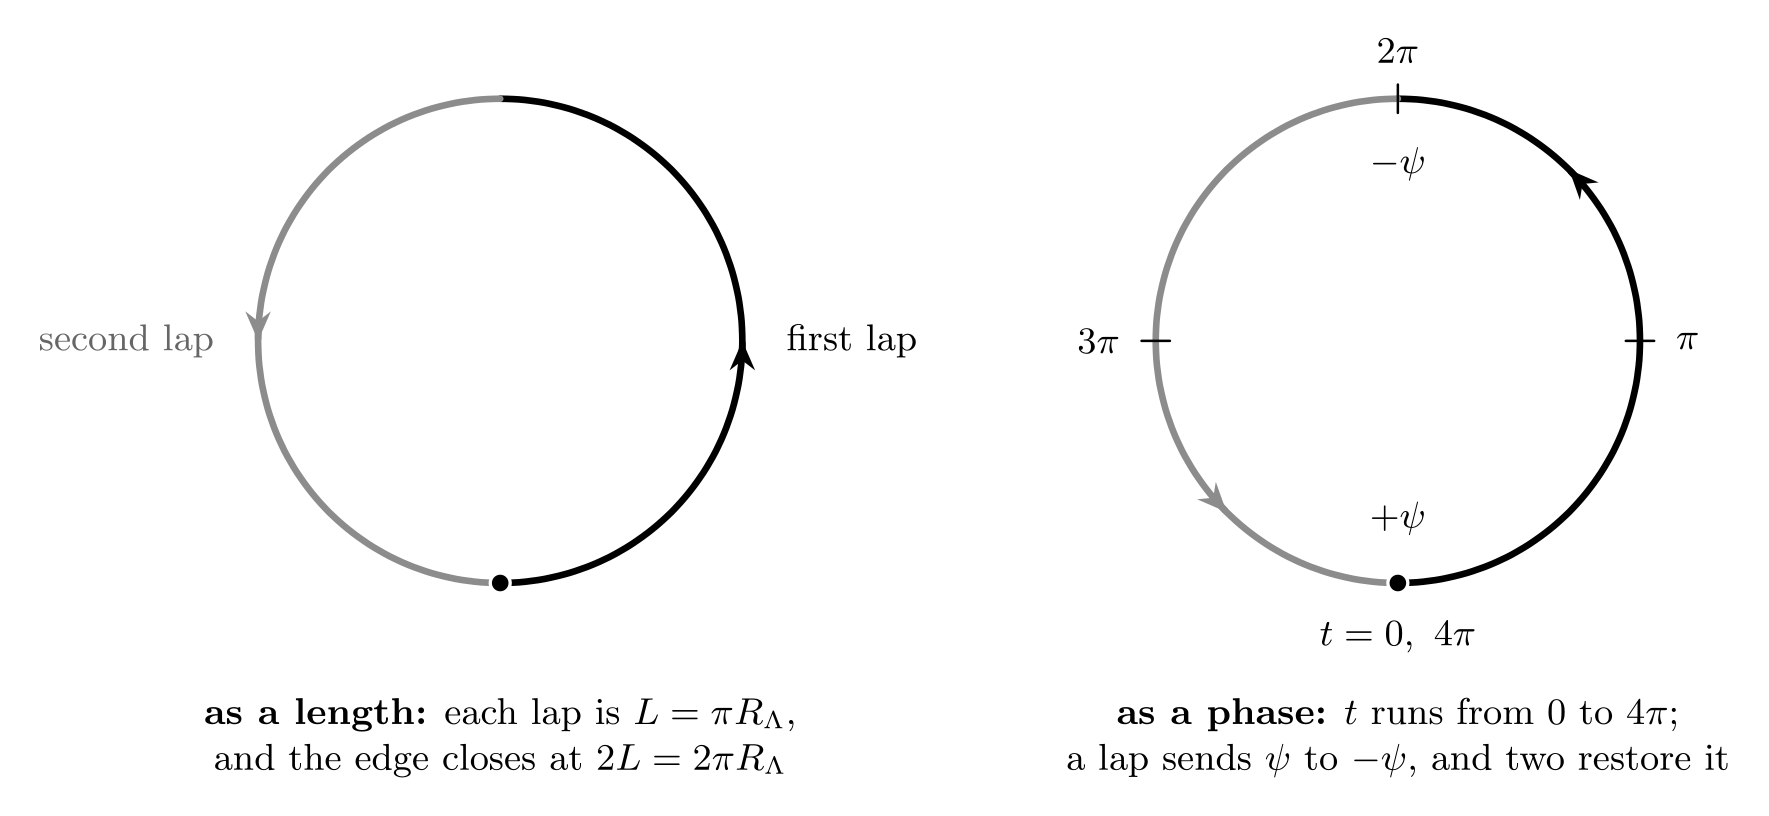
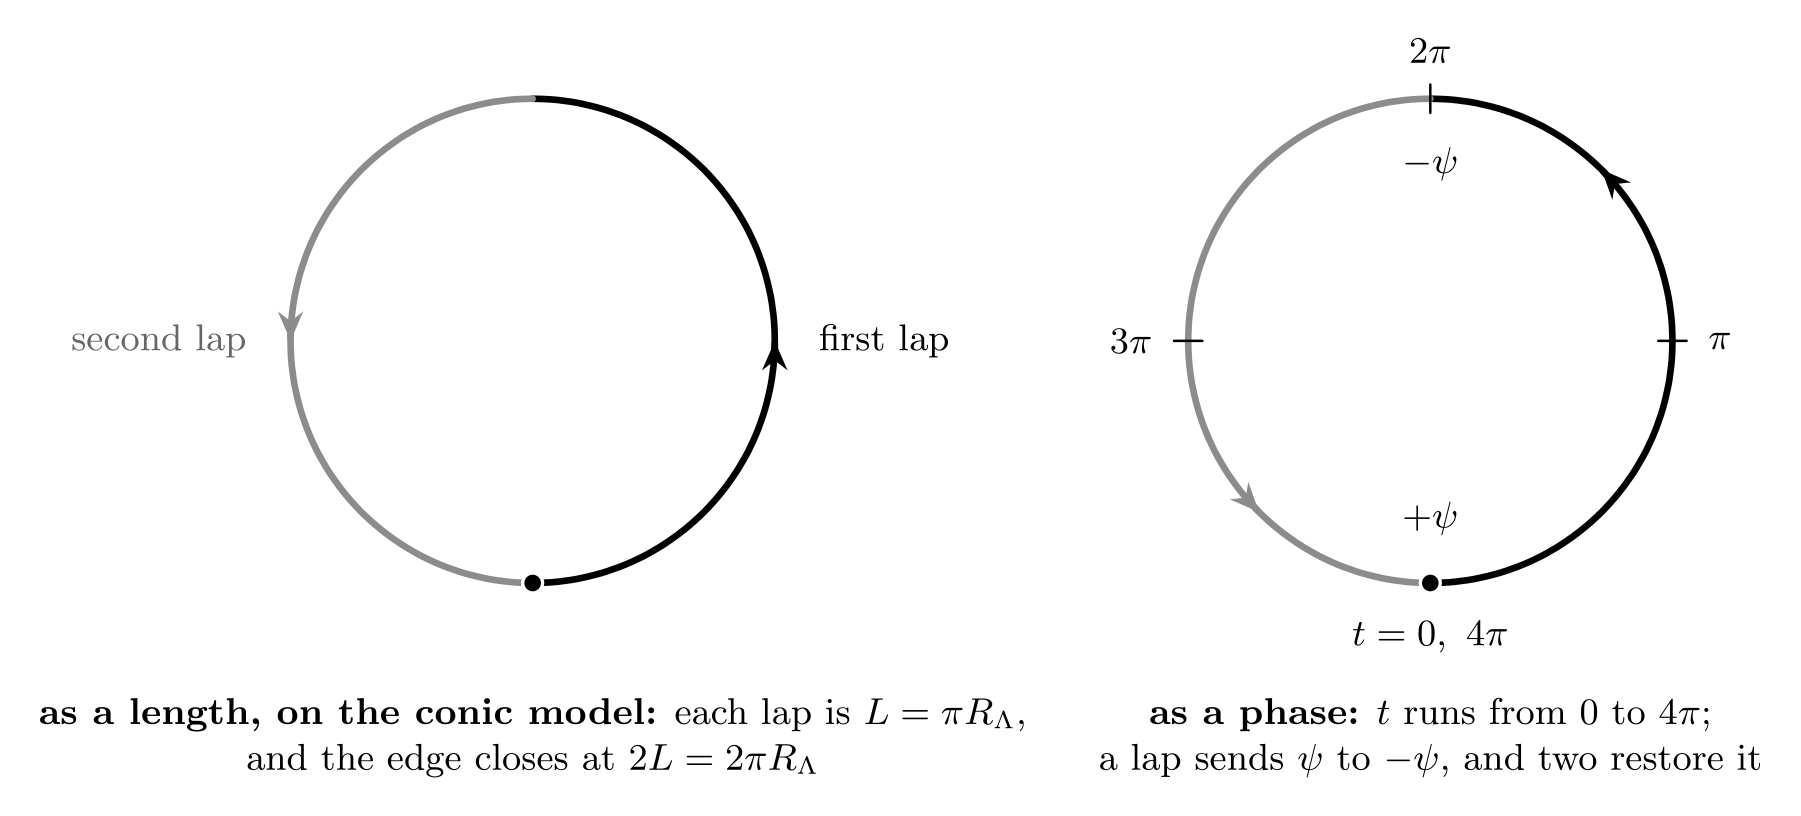
framework: the edge's two laps are topology, its lengths the conic model's
Blake's ruling of 2026-09-30 splits the Temporal Edge sentence. The two laps bind: the
edge winds twice around the core on every Möbius band. The lengths do not: each lap
πR_Λ and the edge 2πR_Λ belong to the conic model, and on a general carrier the core's
lap and the edge's arcs need not even agree (the tubes' edge is 2πR cos(W/R)). Only the
dimensionless mode numbers enter the physics, so nothing downstream moves.

- Surface table: the sign flip per lap, ψ(y + L) = −ψ(y), L the strip's longitudinal
  period, πR_Λ on the conic model
- eigenvalue sentence: k = (2m+1)π/L and ν = kL/(2π), half-integers independent of L;
  on the conic model k = (2m+1)/R_Λ as before
- Temporal Edge: the two laps as topology, L defined as the core's lap, the edge's
  arcs of length L on the conic model only
- the Temporal Edge figure: alt text and its printed caption say "on the conic model"
  (rebuilt from its TikZ source; nothing else in the figure changed)
- topology tool, Edge card: the two arcs and their length on the conic model

"The anti-periodic flip acts per lap" stays verbatim; the carrier page quotes it.

diff --git a/files/tools/files/topology.html b/files/tools/files/topology.html
@@ -367,7 +367,7 @@ var ann = {
   space: { label:"Space", name:"S³ and Its Quotients", body:"Closed, simply connected, no boundary: by the Poincaré theorem, the only such three-space. It covers every layer: S³ → ℝP³ = S³/{±I} → S³/2I, the spin cover SU(2), the rotation group SO(3), and the observable domain, the middle layer's quotient by the icosahedral group I. The grid shows that symmetry: 2I's 120 elements double-cover the icosahedron's 60 rotations. The carrier embeds in the middle layer; which layer is its physical domain is open. Drawn one dimension down.", math:"∂S³ = ∅" },
   surface: { label:"Surface", name:"Geodesic Lune, Möbius Quotient", body:"In the conic model, the leading realization, the carrier is a lune on the great S², unbent, whose opposite tips N and −N the antipodal map −I identifies. Joined at its tips, it is the Möbius band: one side, one edge, embedded in ℝP³ = S³/{±I}. The seam lands on its equator arc. The lune has constant curvature K = 1/R², widest at the equator and pinching to the tips. The twist is topological: the orientation reverses only through the joined tips, and the rest of the lune is orientable.", math:"ds² = dy² + cos²(y/R) dw²" },
   fold: { label:"Projective Layer", name:"The Antipodal Map −I", body:"Identify each point of S³ with its antipode, x ~ −x, and the result is ℝP³ = S³/{±I}. The ghosted lune is the lune's image under −I: in ℝP³ the two are one and the same lune, the carrier, and in S³ they form the double lune, meeting only at the tips, the carrier's whole preimage. The chords pair points with their antipodes, the two tips among them. The carrier's core is the loop that represents −I, and in the spinorial sectors −I is its Möbius holonomy: a geometric sign, not spin-statistics.", math:"ℝP³ = S³/{±I}" },
-  edge: { label:"Edge", name:"S¹ Boundary", body:"One circle that runs the strip twice, one lap per arc, each of length πR. On the lune it is the two boundary meridians, each closed through the joined tips: a figure-eight through the cone point, passing it once per lap. It is the framework's temporal edge, where time advances and the observer is anchored; time runs on the abstract circle, the band's boundary before the cone collapses its middle fiber, and the figure-eight is that circle's image.", math:"S¹ = ∂(Möbius)" },
+  edge: { label:"Edge", name:"S¹ Boundary", body:"One circle that runs the strip twice. On the conic model its two laps are the lune's two boundary meridians, each of length πR and each closed through the joined tips: a figure-eight through the cone point, passing it once per lap. It is the framework's temporal edge, where time advances and the observer is anchored; time runs on the abstract circle, the band's boundary before the cone collapses its middle fiber, and the figure-eight is that circle's image.", math:"S¹ = ∂(Möbius)" },
   lift: { label:"Edge Lift", name:"The Lift to S³", body:"Carried up to S³, the edge closes after one traversal as an embedded circle with corners at N and −N: one boundary meridian of the lune, then one of its antipodal copy, passing each of the cone point's two preimages once. It bounds one of the two lunes complementary to the double lune, a disk, not the carrier's lift. In ℝP³ the edge is the carrier's boundary, S¹ = ∂(Möbius); in S³ its lift is an embedded circle.", math:"S¹ ↪ S³" },
   cone: { label:"Cone Point", name:"The Antinode", body:"At y = πR/2, cos(y/R) → 0 and the strip pinches to a point: the geometry goes quiet and the eigenfunction peaks, u₁ = 1, u₁′ = 0. On the lune it is both tips, N and −N, the cone point's two spin-cover preimages, joined as one point of the carrier. The twist passes through it: a spinorial field takes opposite signs at the two tips, which the intensity cannot tell apart.", math:"u₁(πR/2) = 1" },
   wave: { label:"Eigenfunction", name:"u₁ = sin(y/R)", body:"First positive eigenfunction of the twisted Laplacian, in the Friedrichs realization the framework adopts; bridging with δ₀ > 2R/e shares it. On the lune it is the rigid tilt: the equator arc, where the seam lands, stays fixed, and the two tips move most, in opposite directions. Odd under −I. Anti-periodic: u₁(y + πR) = −u₁(y).", math:"λ₁ = Rₛₘ = 2/R²" },

diff --git a/files/framework/README.md b/files/framework/README.md
@@ -148,7 +148,7 @@ A Möbius strip has one side and one edge. Carry the normal once around the Möb
 
 | Consequence | Mechanism |
 |---|---|
-| Anti-periodic BC | Sections of the orientation bundle acquire a sign flip: $`\psi(y + \pi R_\Lambda) = -\psi(y)`$ |
+| Anti-periodic BC | Sections of the orientation bundle acquire a sign flip per lap: $`\psi(y + L) = -\psi(y)`$, with $`L`$ the strip's longitudinal period, $`\pi R_\Lambda`$ on the conic model |
 | Half-integer spectrum | Mode numbers $`\nu = 1/2, 3/2, 5/2, \ldots`$; the constant mode is forbidden |
 | $`Z_2`$ holonomy | The normal direction reverses under one traversal |
 
@@ -156,7 +156,7 @@ For an orientable surface the orientation bundle is trivial, so none of the thre
 
 On the vacuum carrier the orientation sign and the central $`-I`$ are carried by one loop. The carrier embeds unbent in $`\mathbb{RP}^3`$, as above, and its core lifts to a path in $`S^3`$ from a point to its antipode, so the loop that reverses the normal also represents $`-I`$. Read by its value on the carrier, a field in a half-integer-spin representation of $`2I`$ is therefore anti-periodic around the core, exactly as a section of the orientation bundle is, and an integer-spin one is periodic. Read instead through its derivative across the carrier, the half-integer-spin field is periodic and the integer-spin one anti-periodic. The framework samples through the derivative, taken at unit radius, with one operator independent of spin and statistics ([The Projective Carrier](files/working/files/projective-carrier.md#xi-the-ruling)), so in what it samples the integer-spin fields are the anti-periodic ones. The link makes the spin sign geometric on the carrier without deriving spin-statistics; the divide is set by $`-I`$. A band inside $`S^3`$ has no such link, since its core closes in $`S^3`$ and represents only the identity of $`2I`$. That is the setting of the algebraic route ([Route 1](files/working/files/postulate-bridge.md#route-1)) and the geometric one ([the sampler test](files/working/files/sampler-first-test.md)), neither of which identifies the two signs.
 
-The eigenvalue problem $`-\partial_y^2 \psi = \lambda \psi`$ under the anti-periodic condition requires $`e^{ik\pi R_\Lambda} = -1`$, so $`k = (2m+1)/R_\Lambda`$; with the mode number $`\nu = kR_\Lambda/2`$ the allowed values are the half-integers $`\nu = 1/2, 3/2, 5/2, \ldots`$, and the constant mode ($`k = 0`$) is forbidden. This is the lifted phase-lap spectrum, not the full surface Laplacian: on the constant-curvature Möbius model the ground state depends on the cone extension, the choice of self-adjoint boundary behaviour at the cone point, and no extension has a strictly positive bottom, while the first positive surface level is stable at $`2/R_\Lambda^2`$ in the first-eigenvalue paper's regime, the level MIT later reads as $`\Lambda_{\text{top}}`$.
+The eigenvalue problem $`-\partial_y^2 \psi = \lambda \psi`$ under the anti-periodic condition requires $`e^{ikL} = -1`$, so $`k = (2m+1)\pi/L`$; with the dimensionless mode number $`\nu = kL/(2\pi)`$ the allowed values are the half-integers $`\nu = 1/2, 3/2, 5/2, \ldots`$, independent of the value of $`L`$, and the constant mode ($`k = 0`$) is forbidden. On the conic model $`L = \pi R_\Lambda`$, so $`k = (2m+1)/R_\Lambda`$. This is the lifted phase-lap spectrum, not the full surface Laplacian: on the constant-curvature Möbius model the ground state depends on the cone extension, the choice of self-adjoint boundary behaviour at the cone point, and no extension has a strictly positive bottom, while the first positive surface level is stable at $`2/R_\Lambda^2`$ in the first-eigenvalue paper's regime, the level MIT later reads as $`\Lambda_{\text{top}}`$.
 
 >**📗 [First Eigenvalue](files/bedrock/files/first-eigenvalue.md):** the twisted Möbius Laplacian in full, fixing the first positive surface level, $`\Lambda_\text{top} = 2/R_\Lambda^2`$.
 
@@ -164,9 +164,9 @@ The eigenvalue problem $`-\partial_y^2 \psi = \lambda \psi`$ under the anti-peri
 
 ### Temporal Edge
 
-<p align="center"><img src="https://github.com/dmobius3/mode-identity-theory/blob/main/files/assets/fw-temporal-edge.png?raw=true" width="83%" alt="Two views of the temporal edge S¹ as a circle. Left, as a length: a first lap and a second lap, each of length L = πR_Λ, close the edge at 2L = 2πR_Λ. Right, as a phase: t runs from 0 at the start through π, 2π and 3π back to 4π; the field is +ψ at the start and −ψ one lap later, and two laps restore it"></p>
+<p align="center"><img src="https://github.com/dmobius3/mode-identity-theory/blob/main/files/assets/fw-temporal-edge.png?raw=true" width="83%" alt="Two views of the temporal edge S¹ as a circle. Left, as a length, on the conic model: a first lap and a second lap, each of length L = πR_Λ, close the edge at 2L = 2πR_Λ. Right, as a phase: t runs from 0 at the start through π, 2π and 3π back to 4π; the field is +ψ at the start and −ψ one lap later, and two laps restore it"></p>
 
-$`S^1`$ is the boundary of the Möbius surface. The strip has longitudinal period $`L = \pi R_\Lambda`$ (one lap), and the boundary $`S^1`$ traverses the strip twice before closing, giving geometric circumference $`2L = 2\pi R_\Lambda`$. The anti-periodic flip acts per lap, $`\psi(y + \pi R_\Lambda) = -\psi(y)`$, on the one-lap lift of the orientation-twisting core loop, not on the closed edge itself; over two laps the field returns to $`+\psi`$, so the closed edge is globally periodic with trivial total orientation holonomy, while the $`4\pi`$ wave period lives on the lifted phase coordinate $`t \in [0, 4\pi]`$, a dimensionless parameter rather than a length. This is where time advances and where the observer is anchored. The $`S^1`$ here is the phase cycle of the standing wave, not a closed timelike coordinate of the Lorentzian metric; proper time along an observer history is monotone over the epoch.
+$`S^1`$ is the boundary of the Möbius surface. It traverses the strip twice before closing: the edge winds twice around the core, as it does on every Möbius band. One lap is the strip's longitudinal period $`L`$. On the conic model $`L = \pi R_\Lambda`$, and each of the edge's two arcs also has length $`L`$, so the edge closes at $`2L = 2\pi R_\Lambda`$; those lengths are the model's, while the two laps are topology. The anti-periodic flip acts per lap, $`\psi(y + L) = -\psi(y)`$, on the one-lap lift of the orientation-twisting core loop, not on the closed edge itself; over two laps the field returns to $`+\psi`$, so the closed edge is globally periodic with trivial total orientation holonomy, while the $`4\pi`$ wave period lives on the lifted phase coordinate $`t \in [0, 4\pi]`$, a dimensionless parameter rather than a length. This is where time advances and where the observer is anchored. The $`S^1`$ here is the phase cycle of the standing wave, not a closed timelike coordinate of the Lorentzian metric; proper time along an observer history is monotone over the epoch.
 
 ### Why $`S^3/2I`$
 
